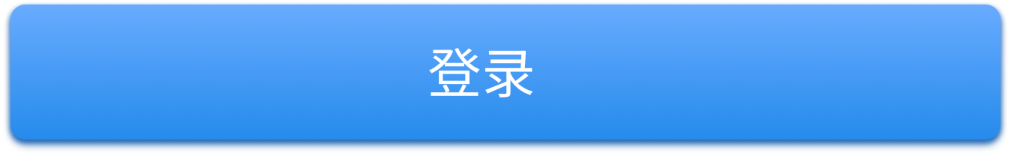
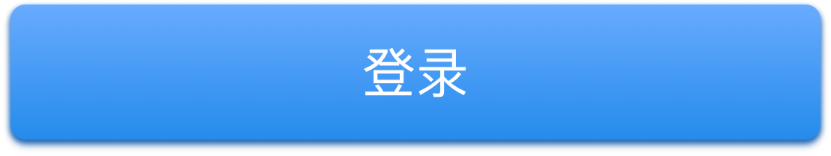
修改登录页

Changed region(s): [[0.4212, 0.3077, 0.5716, 0.641], [0.9627, 0.0256, 0.9928, 0.9231], [0.0, 0.0256, 0.0301, 0.9231]]

diff --git a/event_rn/apps/src/view/login/login.tsx b/event_rn/apps/src/view/login/login.tsx
@@ -1,7 +1,7 @@
 
 import { BaseNavNavgator, configs, defaultStyle, msg, request, tips } from 'dl-kit';
 import React from 'react';
-import { Image, ScrollView, Text, TextInput, TouchableOpacity, View } from 'react-native';
+import { Image, ImageBackground, ScrollView, Text, TextInput, TouchableOpacity, View } from 'react-native';
 import RNArenaPay from 'react-native-arena-pay';
 import CheckImgCode from '../../module/checkImgCode';
 import { getTempToken, isPhoneNum, saveLoginInfo } from '../../module/publicFunc';
@@ -44,111 +44,114 @@ export default class Login extends BaseNavNavgator {
 
         return (
             <ScrollView style={{ flex: 1 }} keyboardDismissMode='on-drag'>
-                {/* logo */}
-                <Image style={{ marginTop: defaultStyle.safeArea.navMarginTop + 25, width: 75, height: 75, borderRadius: 8, backgroundColor: '#eee', alignSelf: 'center' }}
-                    resizeMode='contain'
-                    source={require('#/login/logo.png')} />
+                <View style={{ ...defaultStyle.device }}>
+                    {/* 顶部背景图 */}
+                    <ImageBackground style={{ marginTop: 0, width: defaultStyle.device.width, height: 184 }}
+                        source={require('#/login/topBG.png')} >
+                        <Text style={{ marginTop: 60, marginLeft: 30, fontSize: 22, color: '#fff' }}>嗨，欢迎登录云手机！</Text>
+                    </ImageBackground>
 
-                {/* 手机号 */}
-                <View style={{ marginTop: 25, marginHorizontal: 15, height: 45, backgroundColor: '#fff', borderRadius: 5, paddingHorizontal: 10 }}>
-                    <TextInput
-                        style={{ padding: 0, flex: 1, fontSize: 16 }}
-                        autoCapitalize='none'
-                        autoCorrect={false}
-                        underlineColorAndroid="transparent"
-                        keyboardType='phone-pad'
-                        placeholder='请输入手机号'
-                        placeholderTextColor='#aaa'
-                        value={phone}
-                        onChangeText={text => this.setState({ phone: text })}
-                    />
-                </View>
-
-                {/* 密码 或者 验证码 */}
-                {
-                    loginType == 'passwordLogin' ? (
-                        <View style={{ marginTop: 10, marginHorizontal: 15, height: 45, backgroundColor: '#fff', borderRadius: 5, paddingHorizontal: 10 }}>
+                    {/* 输入部分 */}
+                    <View style={{ marginTop: -72, marginHorizontal: 30, paddingHorizontal: 15, backgroundColor: '#fff', borderRadius: 5, overflow: 'hidden' }}>
+                        {/* 手机号 */}
+                        <View style={{ marginTop: 10, height: 45, borderBottomColor: '#ccc', borderBottomWidth: 1 }}>
                             <TextInput
                                 style={{ padding: 0, flex: 1, fontSize: 16 }}
                                 autoCapitalize='none'
-                                secureTextEntry={true}
                                 autoCorrect={false}
                                 underlineColorAndroid="transparent"
-                                placeholder='请输入密码（8-20位字母数字组合）'
-                                maxLength={20}
+                                keyboardType='phone-pad'
+                                placeholder='请输入手机号'
                                 placeholderTextColor='#aaa'
-                                value={password}
-                                onChangeText={text => this.setState({ password: text })}
+                                value={phone}
+                                onChangeText={text => this.setState({ phone: text })}
                             />
                         </View>
-                    ) : (
-                            <View style={{ marginTop: 10, marginHorizontal: 15, height: 45, backgroundColor: '#fff', borderRadius: 5, alignSelf: 'stretch', flexDirection: 'row' }}>
-                                <TextInput
-                                    style={{ padding: 0, flex: 1, fontSize: 16, marginLeft: 10 }}
-                                    autoCapitalize='none'
-                                    autoCorrect={false}
-                                    underlineColorAndroid="transparent"
-                                    placeholder='请输入验证码'
-                                    placeholderTextColor='#aaa'
-                                    maxLength={6}
-                                    keyboardType='number-pad'
-                                    value={verCode}
-                                    onChangeText={text => this.setState({ verCode: text })}
-                                />
-                                <TouchableOpacity style={{ width: 100, marginLeft: 10, justifyContent: 'center', alignItems: 'center' }}
-                                    onPress={this.sendVcode}>
-                                    <Text style={{ color: '#FF6A41', fontSize: 14 }}>{minutes == 0 ? '获取验证码' : `重新获取 ${minutes}s`}</Text>
-                                </TouchableOpacity>
-                            </View>
-                        )
-                }
 
-                {/* 忘记密码  切换登录方式  按钮*/}
-                <View style={{ marginTop: 10, marginHorizontal: 20, flexDirection: 'row', justifyContent: 'space-between', alignItems: 'center' }}>
-                    <Text style={{ color: '#6498FF', fontSize: 14 }} onPress={this.gotoRetrievePassword}>忘记密码</Text>
-                    <Text style={{ color: '#6498FF', fontSize: 14 }} onPress={this.changeLoginType} >{loginType == 'passwordLogin' ? '验证码登录' : '密码登录'}</Text>
-                </View>
+                        {/* 密码 或者 验证码 */}
+                        {
+                            loginType == 'passwordLogin' ? (
+                                <View style={{ height: 45, borderBottomColor: '#ccc', borderBottomWidth: 1 }}>
+                                    <TextInput
+                                        style={{ padding: 0, flex: 1, fontSize: 16 }}
+                                        autoCapitalize='none'
+                                        secureTextEntry={true}
+                                        autoCorrect={false}
+                                        underlineColorAndroid="transparent"
+                                        placeholder='请输入密码（8-20位字母数字组合）'
+                                        maxLength={20}
+                                        placeholderTextColor='#aaa'
+                                        value={password}
+                                        onChangeText={text => this.setState({ password: text })}
+                                    />
+                                </View>
+                            ) : (
+                                    <View style={{ height: 45, borderBottomColor: '#ccc', borderBottomWidth: 1, flexDirection: 'row', alignItems: 'center' }}>
+                                        <TextInput
+                                            style={{ padding: 0, flex: 1, fontSize: 16 }}
+                                            autoCapitalize='none'
+                                            autoCorrect={false}
+                                            underlineColorAndroid="transparent"
+                                            placeholder='请输入验证码'
+                                            placeholderTextColor='#aaa'
+                                            maxLength={6}
+                                            keyboardType='number-pad'
+                                            value={verCode}
+                                            onChangeText={text => this.setState({ verCode: text })}
+                                        />
+                                        <TouchableOpacity style={{ width: 75, height: 26, borderRadius: 13, justifyContent: 'center', alignItems: 'center', backgroundColor: '#497EFF' }}
+                                            onPress={this.sendVcode}>
+                                            <Text style={{ color: '#fff', fontSize: 12 }}>{minutes == 0 ? '获取验证码' : `重新获取${minutes}s`}</Text>
+                                        </TouchableOpacity>
+                                    </View>
+                                )
+                        }
 
-                {/* 登录按钮 */}
-                <TouchableOpacity style={{ marginTop: 14, marginHorizontal: 10, height: 58, flexDirection: 'row' }}
-                    onPress={this.loginBtnClick}>
-                    <Image style={{ flex: 1, height: 58 }} resizeMode='contain' source={require('#/login/loginBtn.png')} />
-                </TouchableOpacity>
+                        {/* 忘记密码  切换登录方式  按钮*/}
+                        <View style={{ marginTop: 10, marginBottom: 70, flexDirection: 'row', justifyContent: 'space-between', alignItems: 'center' }}>
+                            <Text style={{ color: '#6498FF', fontSize: 14 }} onPress={this.gotoRetrievePassword}>忘记密码</Text>
+                            <Text style={{ color: '#6498FF', fontSize: 14 }} onPress={this.changeLoginType} >{loginType == 'passwordLogin' ? '验证码登录' : '密码登录'}</Text>
+                        </View>
+                    </View>
 
-                {/* 注册按钮 */}
-                <TouchableOpacity style={{ marginTop: 2, marginHorizontal: 10, height: 58, flexDirection: 'row' }}
-                    onPress={this.gotoRegisterPage}>
-                    <Image style={{ flex: 1, height: 58 }} resizeMode='contain' source={require('#/login/registerBtn.png')} />
-                </TouchableOpacity>
 
-                {/* 第三方登录 标题 */}
-                <View style={{ flexDirection: 'row', alignItems: 'center', marginHorizontal: 14, marginTop: 20 }}>
-                    <View style={{ flex: 1, height: 1, backgroundColor: '#D8D8D8' }} />
-                    <Text style={{ color: '#999999', fontSize: 14, marginHorizontal: 16 }}>第三方快捷登录</Text>
-                    <View style={{ flex: 1, height: 1, backgroundColor: '#D8D8D8' }} />
-                </View>
-
-                {/* 微信和QQ的图标 */}
-                <View style={{ marginTop: 20, flexDirection: 'row', justifyContent: 'space-between', alignItems: 'center', paddingHorizontal: 90 }}>
-                    <TouchableOpacity style={{ alignItems: 'center' }}
-                        onPress={this.qqLogin}>
-                        <Image style={{ width: 40, height: 40 }} source={require('#/login/QQ_icon.png')} />
-                        <Text style={{ marginTop: 10, color: '#999', fontSize: 14 }}>QQ登录</Text>
+                    {/* 登录按钮 */}
+                    <TouchableOpacity style={{ marginTop: -30, width: 282, height: 58, alignSelf: 'center' }}
+                        onPress={this.loginBtnClick}>
+                        <Image style={{ width: 282, height: 58 }} resizeMode='contain' source={require('#/login/loginBtn.png')} />
                     </TouchableOpacity>
 
-                    <TouchableOpacity style={{ alignItems: 'center' }}
-                        onPress={this.wexinLogin}>
-                        <Image style={{ width: 40, height: 40 }} source={require('#/login/weixin_icon.png')} />
-                        <Text style={{ marginTop: 10, color: '#999', fontSize: 14 }}>微信登录</Text>
+
+                    {/* 注册按钮 */}
+                    <TouchableOpacity style={{ marginTop: 8, paddingVertical: 1, alignSelf: 'center', justifyContent: 'center', alignItems: 'center', borderBottomWidth: 1, borderBottomColor: '#6498FF' }}
+                        onPress={this.gotoRegisterPage}>
+                        <Text style={{ color: '#6498FF', fontSize: 16 }}>注册账号</Text>
                     </TouchableOpacity>
+
+                    {/* 微信和QQ的图标 */}
+                    <View style={{ marginTop: 60, flex: 1, flexDirection: 'row', alignItems: 'flex-start', justifyContent: 'space-between', paddingHorizontal: 90 }}>
+                        <TouchableOpacity style={{ alignItems: 'center' }}
+                            onPress={this.qqLogin}>
+                            <Image style={{ width: 40, height: 40 }} source={require('#/login/QQ_icon.png')} />
+                            <Text style={{ marginTop: 10, color: '#999', fontSize: 14 }}>QQ登录</Text>
+                        </TouchableOpacity>
+
+                        <TouchableOpacity style={{ alignItems: 'center' }}
+                            onPress={this.wexinLogin}>
+                            <Image style={{ width: 40, height: 40 }} source={require('#/login/weixin_icon.png')} />
+                            <Text style={{ marginTop: 10, color: '#999', fontSize: 14 }}>微信登录</Text>
+                        </TouchableOpacity>
+                    </View>
+
+                    {/* 底部图片 */}
+                    <Image style={{ width: defaultStyle.device.width, height: 44 }} source={require('#/login/bottomImg.png')} />
+
+                    {/* 图形验证码 */}
+                    <CheckImgCode
+                        ref={modal => this.checkImgCode = modal}
+                        passCallback={this.imgCodePass}
+                    />
                 </View>
-
-
-                {/* 图形验证码 */}
-                <CheckImgCode
-                    ref={modal => this.checkImgCode = modal}
-                    passCallback={this.imgCodePass}
-                />
 
             </ScrollView>
         );

diff --git a/event_rn/apps/src/view/mine/mine.tsx b/event_rn/apps/src/view/mine/mine.tsx
@@ -73,26 +73,35 @@ export default class Mine extends BaseNavNavgator {
 
     }
     render() {
-        let bgHeight = defaultStyle.device.width * 173 / 360
+
         let { userInfo } = this.state;
         return (
             <View style={{ flex: 1 }}>
                 {/* 顶部 */}
-                <ImageBackground style={{ height: bgHeight, justifyContent: 'space-between' }} source={require('#/mine/topBGImg.png')}>
+                <ImageBackground style={{ height: 210, width: defaultStyle.device.width }} source={require('#/mine/topBGImg.png')}>
                     <ImageBtn style={{ alignSelf: 'flex-end', marginTop: 14 + defaultStyle.safeArea.navMarginTop, marginRight: 14 }}
                         source={require('#/mine/messageIcon.png')}
                         imgWidth={32}
                         imgHeight={32}
                         onPress={() => this.navigate('MessageList', { title: '消息列表' })} />
                     {/* 头像 */}
-                    <TouchableOpacity style={{ width: 82, height: 82, marginBottom: -17, alignSelf: 'center' }}
+                    <TouchableOpacity style={{ width: 82, height: 82, marginTop: 12, alignSelf: 'center' }}
                         onPress={this.uploadUserImg}>
-                        <Image style={{ width: 82, height: 82, borderRadius: 41, alignSelf: 'center' }} source={userInfo ? { uri: userInfo.userImg } : require('#/mine/defaultHeaderIcon.png')} />
+                        <Image style={{ width: 82, height: 82, borderRadius: 41, alignSelf: 'center' }} source={(userInfo && userInfo.userImg && userInfo.userImg.length > 4) ? { uri: userInfo.userImg } : require('#/mine/defaultHeaderIcon.png')} />
                     </TouchableOpacity>
-                </ImageBackground>
 
-                {/* 手机号 */}
-                <Text style={{ color: '#333', fontSize: 16, alignSelf: 'center', marginTop: 22 }}>{(configs.userInfo?.mobile || '').replaceStrIndex(3, '****')}</Text>
+                    {
+                        configs.token ? (
+                            <Text style={{ color: '#fff', fontSize: 16, alignSelf: 'center', marginTop: 12 }}>{(configs.userInfo?.mobile || '').replaceStrIndex(3, '****')}</Text>
+                        ) : (
+                                <TouchableOpacity style={{ marginTop: 5, paddingVertical: 2, paddingHorizontal: 18, alignSelf: 'center', justifyContent: 'center', alignItems: 'center', borderRadius: 4, borderWidth: 1, borderColor: '#fff' }}
+                                    onPress={this.gotoLogin}>
+                                    <Text style={{ color: '#fff', fontSize: 14 }}>登录</Text>
+                                </TouchableOpacity>
+                            )
+                    }
+
+                </ImageBackground>
 
                 {/* 按钮栏目 */}
                 <View style={{ backgroundColor: '#fff', marginTop: 10 }}>
@@ -141,6 +150,13 @@ export default class Mine extends BaseNavNavgator {
     logout = () => {
         logoutAndClear()
         msg.emit('logout', { message: '退出登录' })
+    }
+
+    /**
+    *  跳转登录页面
+    */
+    gotoLogin = () => {
+        msg.emit('changeRootRoute', { rootRoute: 'Login' })
     }
 
     /**
